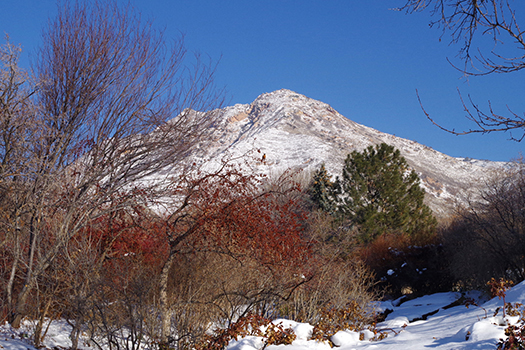
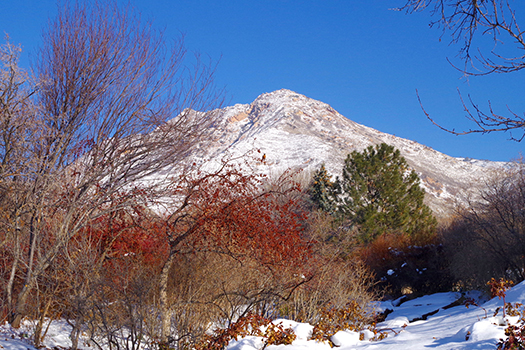
I got carsick in your office.

diff --git a/whats-blooming/_posts/2019-01-04-hold-on.html b/whats-blooming/_posts/2019-01-04-hold-on.html
@@ -7,7 +7,7 @@ layout: "post"
 blog-banner: "whats-blooming-now-winter.jpg"
 post-date: "January 1, 2019"
 post-time: "12:00 PM"
-blog-image: "2018-12-19-wbn.jpg"
+blog-image: "2019-01-04-wbn.jpg"
 published: true
 ---
 
